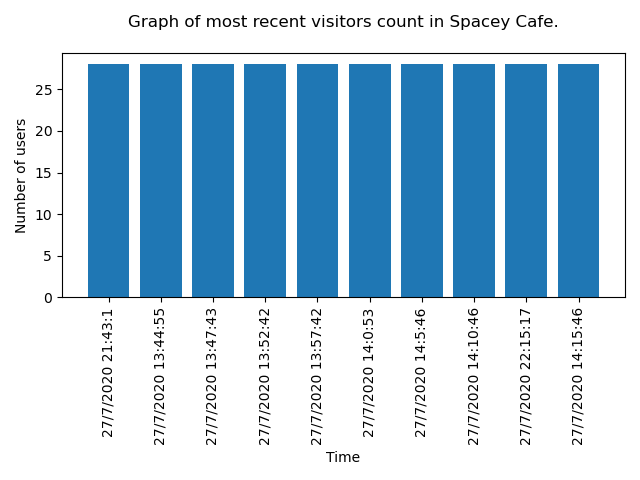
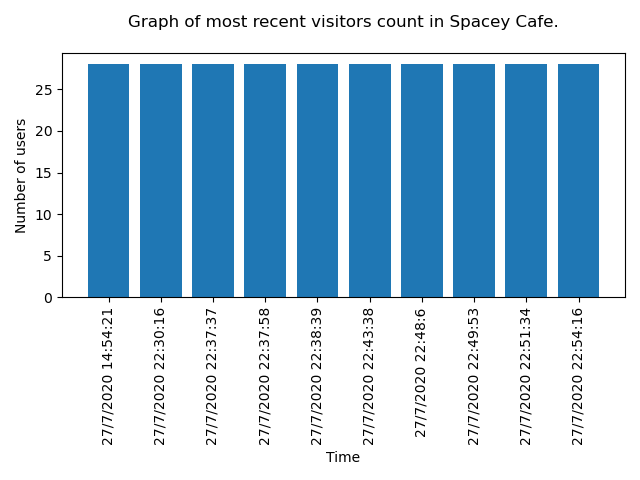
last

diff --git a/Server/Telegram_Bot_Spacey/spacey2.py b/Server/Telegram_Bot_Spacey/spacey2.py
@@ -265,12 +265,15 @@ def check_what(update, context):
 
     elif option == "Recent Statistics":
         data = cfg.database.client.hgetall(area+"_"+location+"_totalvisitors")
+        data_keep = data
         data = sorted(data)
-        latest10 = list(data)[-10:]
+        latest10 = data[-10:]
+            
         total_visitors_list = []
         for timestamp in latest10:
-            total_visitors_list.append(int(data[timestamp]))
-            
+            total_visitors_list.append(int(data_keep[timestamp]))
+        context.bot.send_message(user_id, total_visitors_list)    
+
         height = total_visitors_list
         bars = latest10
         y_pos = np.arange(len(bars))
